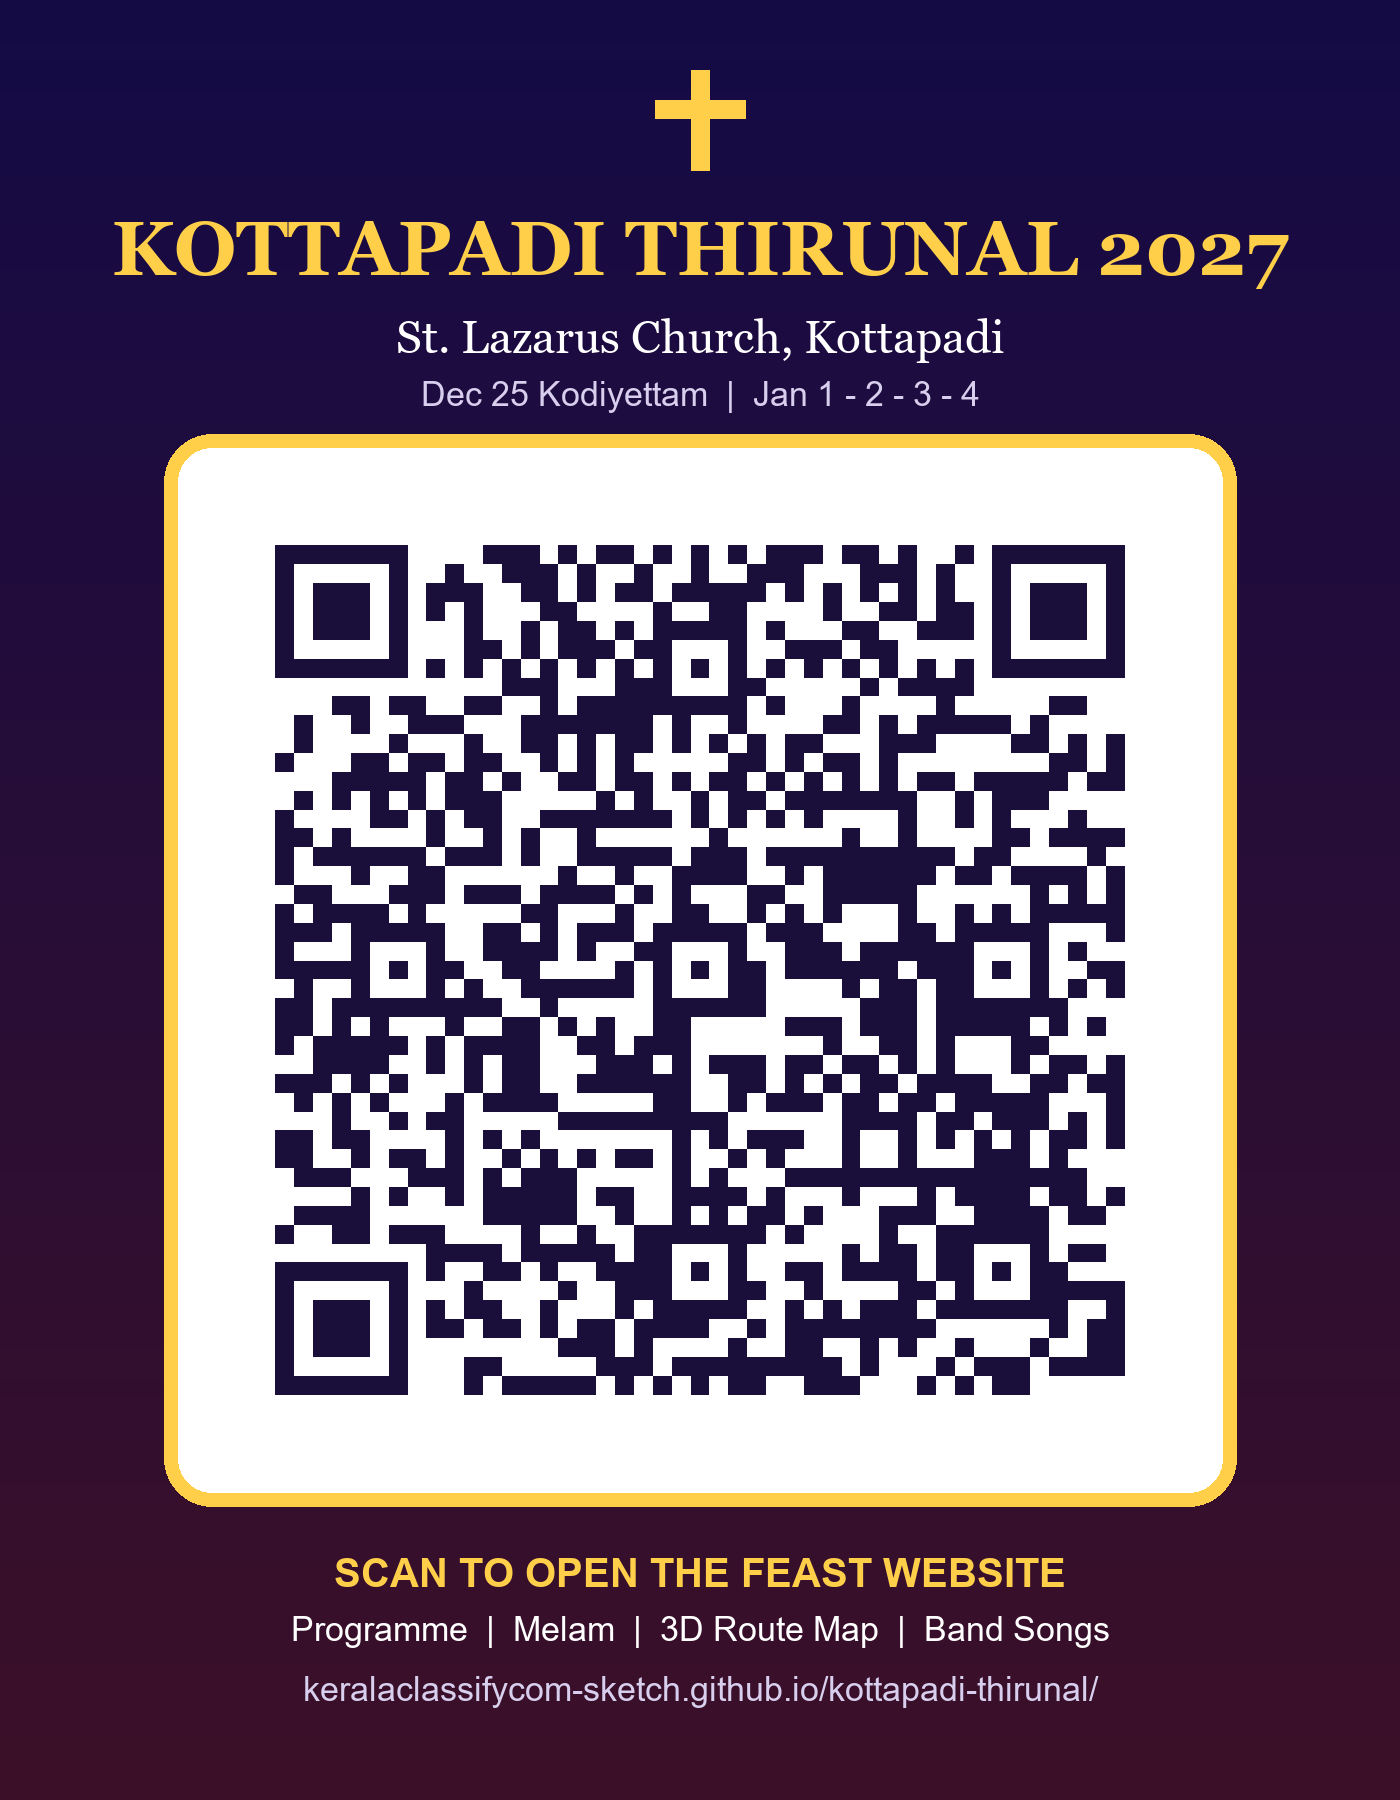
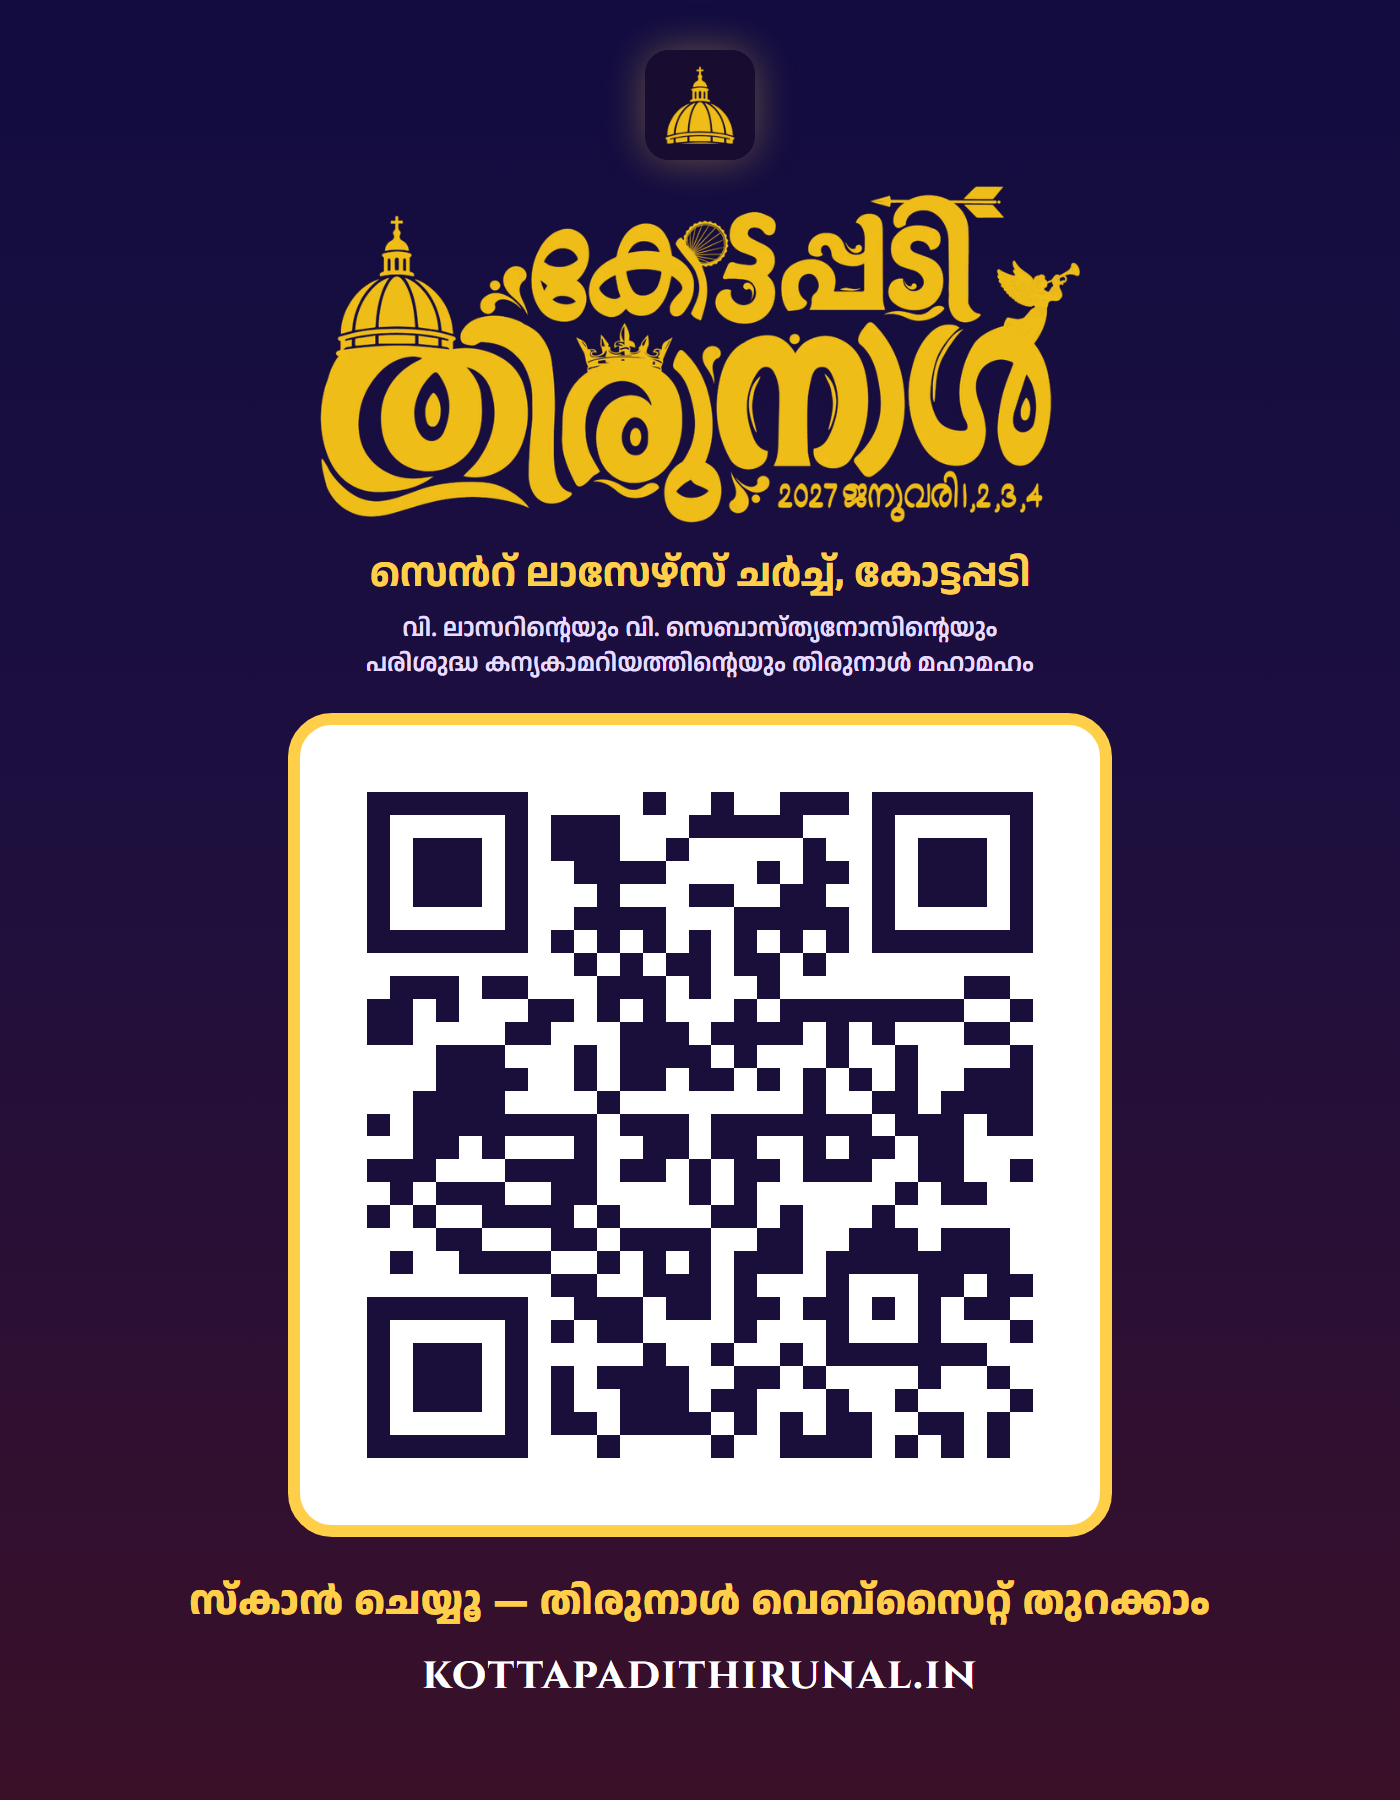
Move to kottapadithirunal.in: links, share image, QR codes and poster

diff --git a/index.html b/index.html
@@ -8,16 +8,16 @@
 <meta name="viewport" content="width=device-width,initial-scale=1,viewport-fit=cover">
 <title>കോട്ടപ്പടി തിരുനാൾ 2027 — സെൻറ് ലാസേഴ്സ് ചർച്ച്, കോട്ടപ്പടി</title>
 <meta name="description" content="ചരിത്ര പ്രസിദ്ധമായ കോട്ടപ്പടി തിരുനാൾ 2027 — ഡിസംബർ 25 കൊടിയേറ്റം, ജനുവരി 1, 2, 3, 4. പരിപാടികൾ, മേളങ്ങൾ, അമ്പ്–വള എഴുന്നള്ളിപ്പ് 3D റൂട്ട് മാപ്പ്, ബാൻഡ് സെറ്റ്.">
-<link rel="canonical" href="https://keralaclassifycom-sketch.github.io/kottapadi-thirunal/">
-<!-- Link preview (WhatsApp / Facebook / Telegram / X). Image: images/og-kottapadi-thirunal-v3.jpg, made from tools/og-card.html -->
+<link rel="canonical" href="https://kottapadithirunal.in/">
+<!-- Link preview (WhatsApp / Facebook / Telegram / X). Image: images/og-kottapadi-thirunal-v4.jpg, made from tools/og-card.html -->
 <meta property="og:type" content="website">
 <meta property="og:site_name" content="കോട്ടപ്പടി തിരുനാൾ 2027">
 <meta property="og:locale" content="ml_IN">
-<meta property="og:url" content="https://keralaclassifycom-sketch.github.io/kottapadi-thirunal/">
+<meta property="og:url" content="https://kottapadithirunal.in/">
 <meta property="og:title" content="കോട്ടപ്പടി തിരുനാൾ 2027 ⛪ സെൻറ് ലാസേഴ്സ് ചർച്ച്">
 <meta property="og:description" content="ഡിസംബർ 25 കൊടിയേറ്റം · ജനുവരി 1, 2, 3, 4 — പരിപാടികൾ, മേളങ്ങൾ, 3D റൂട്ട് മാപ്പ്, ബാൻഡ് സെറ്റ്.">
-<meta property="og:image" content="https://keralaclassifycom-sketch.github.io/kottapadi-thirunal/images/og-kottapadi-thirunal-v3.jpg">
-<meta property="og:image:secure_url" content="https://keralaclassifycom-sketch.github.io/kottapadi-thirunal/images/og-kottapadi-thirunal-v3.jpg">
+<meta property="og:image" content="https://kottapadithirunal.in/images/og-kottapadi-thirunal-v4.jpg">
+<meta property="og:image:secure_url" content="https://kottapadithirunal.in/images/og-kottapadi-thirunal-v4.jpg">
 <meta property="og:image:type" content="image/jpeg">
 <meta property="og:image:width" content="1200">
 <meta property="og:image:height" content="630">
@@ -25,7 +25,7 @@
 <meta name="twitter:card" content="summary_large_image">
 <meta name="twitter:title" content="കോട്ടപ്പടി തിരുനാൾ 2027 ⛪ സെൻറ് ലാസേഴ്സ് ചർച്ച്">
 <meta name="twitter:description" content="ഡിസംബർ 25 കൊടിയേറ്റം · ജനുവരി 1, 2, 3, 4 — പരിപാടികൾ, മേളങ്ങൾ, 3D റൂട്ട് മാപ്പ്.">
-<meta name="twitter:image" content="https://keralaclassifycom-sketch.github.io/kottapadi-thirunal/images/og-kottapadi-thirunal-v3.jpg">
+<meta name="twitter:image" content="https://kottapadithirunal.in/images/og-kottapadi-thirunal-v4.jpg">
 <meta name="theme-color" content="#0b0716">
 <link rel="icon" type="image/png" sizes="32x32" href="images/favicon-32.png?v=2">
 <link rel="icon" type="image/png" sizes="512x512" href="images/icon-512.png?v=2">

diff --git a/tools/qr-poster.html b/tools/qr-poster.html
@@ -1,0 +1,29 @@
+<!doctype html>
+<!-- Source for images/qr-kottapadi-thirunal-poster.png (1400 x 1800). Render with headless Chrome, as in tools/make-og.sh. -->
+<html lang="ml">
+<head>
+<meta charset="utf-8">
+<link rel="stylesheet" href="https://fonts.googleapis.com/css2?family=Anek+Malayalam:wdth,wght@75..125,400..800&family=Cinzel:wght@600;700&display=block">
+<style>
+  html,body{margin:0;width:1400px;height:1800px;overflow:hidden}
+  body{background:linear-gradient(180deg,#120c40 0%,#1d0f3f 45%,#3a1028 100%);color:#fff;font-family:"Anek Malayalam",sans-serif;text-align:center}
+  .dome{display:block;width:110px;height:110px;margin:50px auto 0;border-radius:24px;box-shadow:0 0 40px rgba(255,207,74,.35)}
+  .logo{display:block;width:760px;margin:26px auto 0}
+  .church{margin:22px 0 0;font-size:40px;font-weight:700;color:#ffcf4a}
+  .feast{margin:8px 0 0;font-size:25px;font-weight:600;color:#e6dcff;line-height:1.4}
+  .card{width:800px;height:800px;margin:32px auto 0;background:#fff;border:12px solid #ffcf4a;border-radius:44px;display:grid;place-items:center}
+  .card img{width:666px;height:666px;image-rendering:pixelated}
+  .scan{margin:36px 0 0;font-family:"Anek Malayalam",sans-serif;font-weight:800;font-size:40px;letter-spacing:.02em;color:#ffcf4a}
+  .url{margin:14px 0 0;font-family:Cinzel,serif;font-weight:700;font-size:44px;letter-spacing:.04em;color:#fff}
+</style>
+</head>
+<body>
+  <img class="dome" src="../images/icon-512.png" alt="">
+  <img class="logo" src="../images/logos/kottapadi-thirunal.webp" alt="">
+  <p class="church">സെൻറ് ലാസേഴ്സ് ചർച്ച്, കോട്ടപ്പടി</p>
+  <p class="feast">വി. ലാസറിന്റെയും വി. സെബാസ്ത്യനോസിന്റെയും<br>പരിശുദ്ധ കന്യകാമറിയത്തിന്റെയും തിരുനാൾ മഹാമഹം</p>
+  <div class="card"><img src="qr-plain.png" alt=""></div>
+  <p class="scan">സ്കാൻ ചെയ്യൂ — തിരുനാൾ വെബ്സൈറ്റ് തുറക്കാം</p>
+  <p class="url">kottapadithirunal.in</p>
+</body>
+</html>

diff --git a/tools/og-card.html b/tools/og-card.html
@@ -1,5 +1,5 @@
 <!doctype html>
-<!-- Source for images/og-kottapadi-thirunal-v3.jpg (the WhatsApp / Facebook link preview).
+<!-- Source for images/og-kottapadi-thirunal-v4.jpg (the WhatsApp / Facebook link preview).
      Not linked from the site. Regenerate with tools/make-og.sh after editing. -->
 <html lang="ml">
 <head>
@@ -20,7 +20,7 @@
   .logo{display:block;width:560px;margin:14px 0 0 -6px;filter:drop-shadow(0 8px 20px rgba(0,0,0,.6)) drop-shadow(0 0 30px rgba(255,207,74,.25))}
   .kodi{margin-top:10px;font-weight:700;font-size:25px;color:#f1e9ff}
   .kodi em{font-style:normal;color:#ffcf4a}
-  .url{position:absolute;right:46px;bottom:32px;font-family:Cinzel,serif;font-weight:600;font-size:16px;letter-spacing:.06em;color:#fff;opacity:.85;text-shadow:0 2px 8px #000}
+  .url{position:absolute;right:46px;bottom:32px;font-family:Cinzel,serif;font-weight:700;font-size:24px;letter-spacing:.06em;color:#fff;opacity:.85;text-shadow:0 2px 8px #000}
   .dots{position:absolute;right:0;top:0;width:520px;height:100%;pointer-events:none;
         background-image:radial-gradient(3px 3px at 20% 30%,#ffd60a,transparent),radial-gradient(3px 3px at 70% 18%,#ff3b5c,transparent),radial-gradient(3px 3px at 85% 60%,#5ec8ff,transparent),radial-gradient(3px 3px at 40% 80%,#22c55e,transparent)}
 </style>
@@ -34,7 +34,7 @@
       <img class="logo" src="../images/logos/kottapadi-thirunal.webp" alt="">
       <div class="kodi"><em>ഡിസംബർ 25</em> — തിരുനാൾ കൊടിയേറ്റം</div>
     </div>
-    <div class="url">KERALACLASSIFYCOM-SKETCH.GITHUB.IO/KOTTAPADI-THIRUNAL</div>
+    <div class="url">KOTTAPADITHIRUNAL.IN</div>
   </div>
 </body>
 </html>

diff --git a/data.js b/data.js
@@ -23,7 +23,7 @@ window.FEAST = {
   ],
   liveFrom: "2026-12-31", liveTo: "2027-01-04",
   updated: "20-11-2026",
-  siteUrl: "https://keralaclassifycom-sketch.github.io/kottapadi-thirunal/",   // QR കോഡ് ഈ ലിങ്കിലേക്ക്
+  siteUrl: "https://kottapadithirunal.in/",   // QR കോഡ് ഈ ലിങ്കിലേക്ക്
   mapsLink: "https://www.google.com/maps/search/?api=1&query=St+Lazarus+Church+Kottapadi",
   whatsappNumber: "918086833031",          // ലിസ്റ്റിൽ ചേർക്കാൻ
   whatsappShow: "80868 33031",
